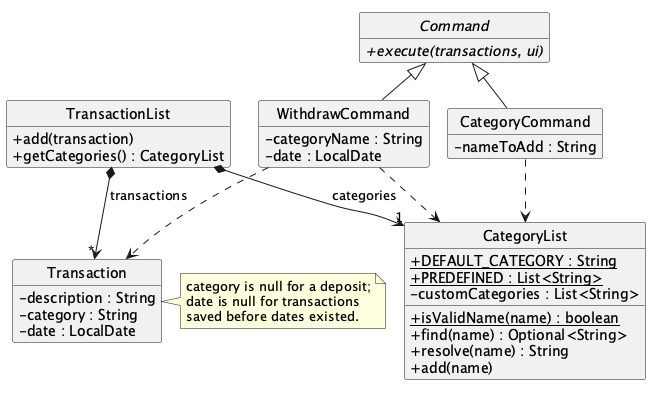
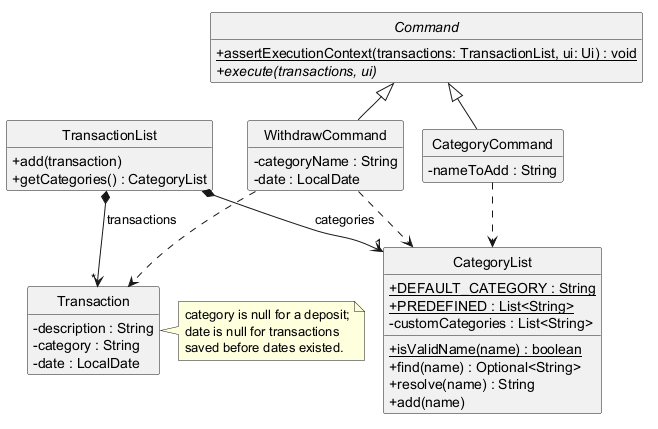
Move assertion method to Command and update diagrams

Changed region(s): [[0.0, 0.0304, 0.9726, 0.9722]]

diff --git a/src/main/java/finnus/command/HistoryCommand.java b/src/main/java/finnus/command/HistoryCommand.java
@@ -7,7 +7,6 @@ import java.util.List;
 import java.util.Locale;
 import java.util.logging.Logger;
 
-import finnus.FinNUS;
 import finnus.ValidationRegex;
 import finnus.exception.FinNusException;
 import finnus.transaction.TransactionList;
@@ -52,7 +51,7 @@ public class HistoryCommand extends Command {
      */
     @Override
     public void execute(TransactionList transactions, Ui ui) throws FinNusException {
-        FinNUS.assertExecutionContext(transactions, ui);
+        assertExecutionContext(transactions, ui);
         if (firstIndex >= transactions.size() && (firstIndex != 0 || transactions.size() != 0)) {
             throw new FinNusException("History page is out of range.");
         }
@@ -72,7 +71,7 @@ public class HistoryCommand extends Command {
      */
     public boolean handleInput(String input, TransactionList transactions, Ui ui) throws FinNusException {
         assert input != null : "Input must not be null";
-        FinNUS.assertExecutionContext(transactions, ui);
+        assertExecutionContext(transactions, ui);
 
         String trimmed = input.trim().toLowerCase(Locale.ROOT);
         switch (trimmed) {
@@ -152,7 +151,7 @@ public class HistoryCommand extends Command {
      * @param ui Displays the page or empty-list message.
      */
     private void showPage(TransactionList transactions, Ui ui) {
-        FinNUS.assertExecutionContext(transactions, ui);
+        assertExecutionContext(transactions, ui);
         assert pageSize > 0 : "Page size must remain positive";
 
         int total = transactions.size();

diff --git a/src/main/java/finnus/Setup.java b/src/main/java/finnus/Setup.java
@@ -8,6 +8,7 @@ import java.util.logging.Logger;
 
 import finnus.alert.SpendingAlert;
 import finnus.command.AllowanceCommand;
+import finnus.command.Command;
 import finnus.command.OpeningBalanceCommand;
 import finnus.exception.FinNusException;
 import finnus.money.Money;
@@ -77,7 +78,7 @@ public class Setup {
     /** Prompts until an opening balance is confirmed or input ends. */
     boolean initializeOpeningBalance(Ui ui, TransactionList transactions) {
         //@@author lololol8484
-        FinNUS.assertExecutionContext(transactions, ui);
+        Command.assertExecutionContext(transactions, ui);
         assert transactions.size() == 0 : "First-run setup must not start with transactions";
         ui.showMessage("First-time setup", "Enter your current opening balance in SGD.",
                 "This is your starting balance and will not be recorded as a transaction.");

diff --git a/src/main/java/finnus/command/DepositCommand.java b/src/main/java/finnus/command/DepositCommand.java
@@ -3,7 +3,6 @@ package finnus.command;
 import java.time.LocalDate;
 import java.util.logging.Logger;
 
-import finnus.FinNUS;
 import finnus.money.Money;
 import finnus.transaction.Transaction;
 import finnus.transaction.TransactionList;
@@ -49,7 +48,7 @@ public class DepositCommand extends Command {
     /** Adds the deposit to the ledger and confirms the updated transaction count. */
     @Override
     public void execute(TransactionList transactions, Ui ui) {
-        FinNUS.assertExecutionContext(transactions, ui);
+        assertExecutionContext(transactions, ui);
         Transaction deposit = new Transaction(TransactionType.DEPOSIT, amount, description, null, date);
         transactions.add(deposit);
         logger.info("Added " + deposit + ", total transactions: " + transactions.size());

diff --git a/src/main/java/finnus/command/FindCommand.java b/src/main/java/finnus/command/FindCommand.java
@@ -5,7 +5,6 @@ import java.util.ArrayList;
 import java.util.List;
 import java.util.logging.Logger;
 
-import finnus.FinNUS;
 import finnus.exception.FinNusException;
 import finnus.transaction.Transaction;
 import finnus.transaction.TransactionList;
@@ -62,7 +61,7 @@ public class FindCommand extends Command {
      */
     @Override
     public void execute(TransactionList transactions, Ui ui) throws FinNusException {
-        FinNUS.assertExecutionContext(transactions, ui);
+        assertExecutionContext(transactions, ui);
         //@@author chancheese
         // Resolved to its own spelling, e.g. "food" becomes "Food", as when recording a withdrawal.
         String category = categoryName == null ? null : transactions.getCategories().resolve(categoryName);

diff --git a/src/main/java/finnus/command/WithdrawCommand.java b/src/main/java/finnus/command/WithdrawCommand.java
@@ -3,7 +3,6 @@ package finnus.command;
 import java.time.LocalDate;
 import java.util.logging.Logger;
 
-import finnus.FinNUS;
 import finnus.exception.FinNusException;
 import finnus.money.Money;
 import finnus.transaction.Transaction;
@@ -61,7 +60,7 @@ public class WithdrawCommand extends Command {
      */
     @Override
     public void execute(TransactionList transactions, Ui ui) throws FinNusException {
-        FinNUS.assertExecutionContext(transactions, ui);
+        assertExecutionContext(transactions, ui);
         // The category is checked here rather than in the parser, because the list of
         // categories (including custom ones) lives in the TransactionList.
         String category = transactions.getCategories().resolve(categoryName);

diff --git a/src/main/java/finnus/command/AlertCommand.java b/src/main/java/finnus/command/AlertCommand.java
@@ -4,7 +4,6 @@ package finnus.command;
 import java.math.BigDecimal;
 import java.util.logging.Logger;
 
-import finnus.FinNUS;
 import finnus.alert.SpendingAlert;
 import finnus.money.Money;
 import finnus.transaction.TransactionList;
@@ -62,7 +61,7 @@ public class AlertCommand extends Command {
     /** Displays or updates alert settings while preserving the other optional threshold. */
     @Override
     public void execute(TransactionList transactions, Ui ui) {
-        FinNUS.assertExecutionContext(transactions, ui);
+        assertExecutionContext(transactions, ui);
         SpendingAlert current = transactions.getSpendingAlert();
         if (setting == Setting.SHOW) {
             showSettings(current, ui);

diff --git a/src/main/java/finnus/command/DeleteCommand.java b/src/main/java/finnus/command/DeleteCommand.java
@@ -3,7 +3,6 @@ package finnus.command;
 
 import java.util.logging.Logger;
 
-import finnus.FinNUS;
 import finnus.exception.FinNusException;
 import finnus.transaction.Transaction;
 import finnus.transaction.TransactionList;
@@ -36,7 +35,7 @@ public class DeleteCommand extends Command {
      */
     @Override
     public void execute(TransactionList transactions, Ui ui) throws FinNusException {
-        FinNUS.assertExecutionContext(transactions, ui);
+        assertExecutionContext(transactions, ui);
         if (index < 1 || index > transactions.size()) {
             logger.warning("Failed to delete transaction: invalid index " + index
                 + " for " + transactions.size() + " transaction(s).");

diff --git a/src/main/java/finnus/command/ForeignTransactionCommand.java b/src/main/java/finnus/command/ForeignTransactionCommand.java
@@ -5,7 +5,6 @@ import java.math.BigDecimal;
 import java.time.LocalDate;
 import java.util.logging.Logger;
 
-import finnus.FinNUS;
 import finnus.currency.ForeignAmount;
 import finnus.exception.FinNusException;
 import finnus.transaction.Transaction;
@@ -99,7 +98,7 @@ public class ForeignTransactionCommand extends Command {
      */
     @Override
     public void execute(TransactionList transactions, Ui ui) throws FinNusException {
-        FinNUS.assertExecutionContext(transactions, ui);
+        assertExecutionContext(transactions, ui);
         //@@author nabijonzzz
         String category = type == TransactionType.WITHDRAWAL
                 ? transactions.getCategories().resolve(categoryName) : null;

diff --git a/src/main/java/finnus/command/ChartSpendingCommand.java b/src/main/java/finnus/command/ChartSpendingCommand.java
@@ -8,7 +8,6 @@ import java.util.List;
 import java.util.Map;
 import java.util.logging.Logger;
 
-import finnus.FinNUS;
 import finnus.category.CategoryList;
 import finnus.money.Money;
 import finnus.transaction.Transaction;
@@ -43,7 +42,7 @@ public class ChartSpendingCommand extends Command {
      */
     @Override
     public void execute(TransactionList transactions, Ui ui) {
-        FinNUS.assertExecutionContext(transactions, ui);
+        assertExecutionContext(transactions, ui);
         logger.fine(period == null ? "Preparing overall spending chart"
                 : "Preparing spending chart for " + period + " containing " + date);
         Map<String, Money> totals = new HashMap<>();

diff --git a/src/main/java/finnus/command/ChartFlowCommand.java b/src/main/java/finnus/command/ChartFlowCommand.java
@@ -8,7 +8,6 @@ import java.util.List;
 import java.util.Map;
 import java.util.logging.Logger;
 
-import finnus.FinNUS;
 import finnus.exception.FinNusException;
 import finnus.money.Money;
 import finnus.transaction.Transaction;
@@ -55,7 +54,7 @@ public class ChartFlowCommand extends Command {
      */
     @Override
     public void execute(TransactionList transactions, Ui ui) throws FinNusException {
-        FinNUS.assertExecutionContext(transactions, ui);
+        assertExecutionContext(transactions, ui);
         logger.fine("Preparing cash-flow chart by " + period + " from " + from + " to " + to
                 + ", page " + page);
         List<LocalDate> starts = new ArrayList<>();

diff --git a/src/main/java/finnus/FinNUS.java b/src/main/java/finnus/FinNUS.java
@@ -86,17 +86,6 @@ public class FinNUS {
         this.clock = Objects.requireNonNull(clock);
     }
 
-    /**
-     * Checks that a command has the transaction list and UI it needs to execute.
-     *
-     * @param transactions The transaction list passed to the command.
-     * @param ui The UI passed to the command.
-     */
-    public static void assertExecutionContext(TransactionList transactions, Ui ui) {
-        assert transactions != null : "Transaction list must not be null";
-        assert ui != null : "UI must not be null";
-    }
-
     /** Returns today's date according to the clock. */
     private LocalDate today() {
         return LocalDate.now(clock);

diff --git a/src/main/java/finnus/command/CategoryCommand.java b/src/main/java/finnus/command/CategoryCommand.java
@@ -5,7 +5,6 @@ import java.util.ArrayList;
 import java.util.List;
 import java.util.logging.Logger;
 
-import finnus.FinNUS;
 import finnus.category.CategoryList;
 import finnus.exception.FinNusException;
 import finnus.transaction.TransactionList;
@@ -45,7 +44,7 @@ public class CategoryCommand extends Command {
      */
     @Override
     public void execute(TransactionList transactions, Ui ui) throws FinNusException {
-        FinNUS.assertExecutionContext(transactions, ui);
+        assertExecutionContext(transactions, ui);
         CategoryList categories = transactions.getCategories();
         if (nameToAdd == null) {
             listCategories(categories, ui);
